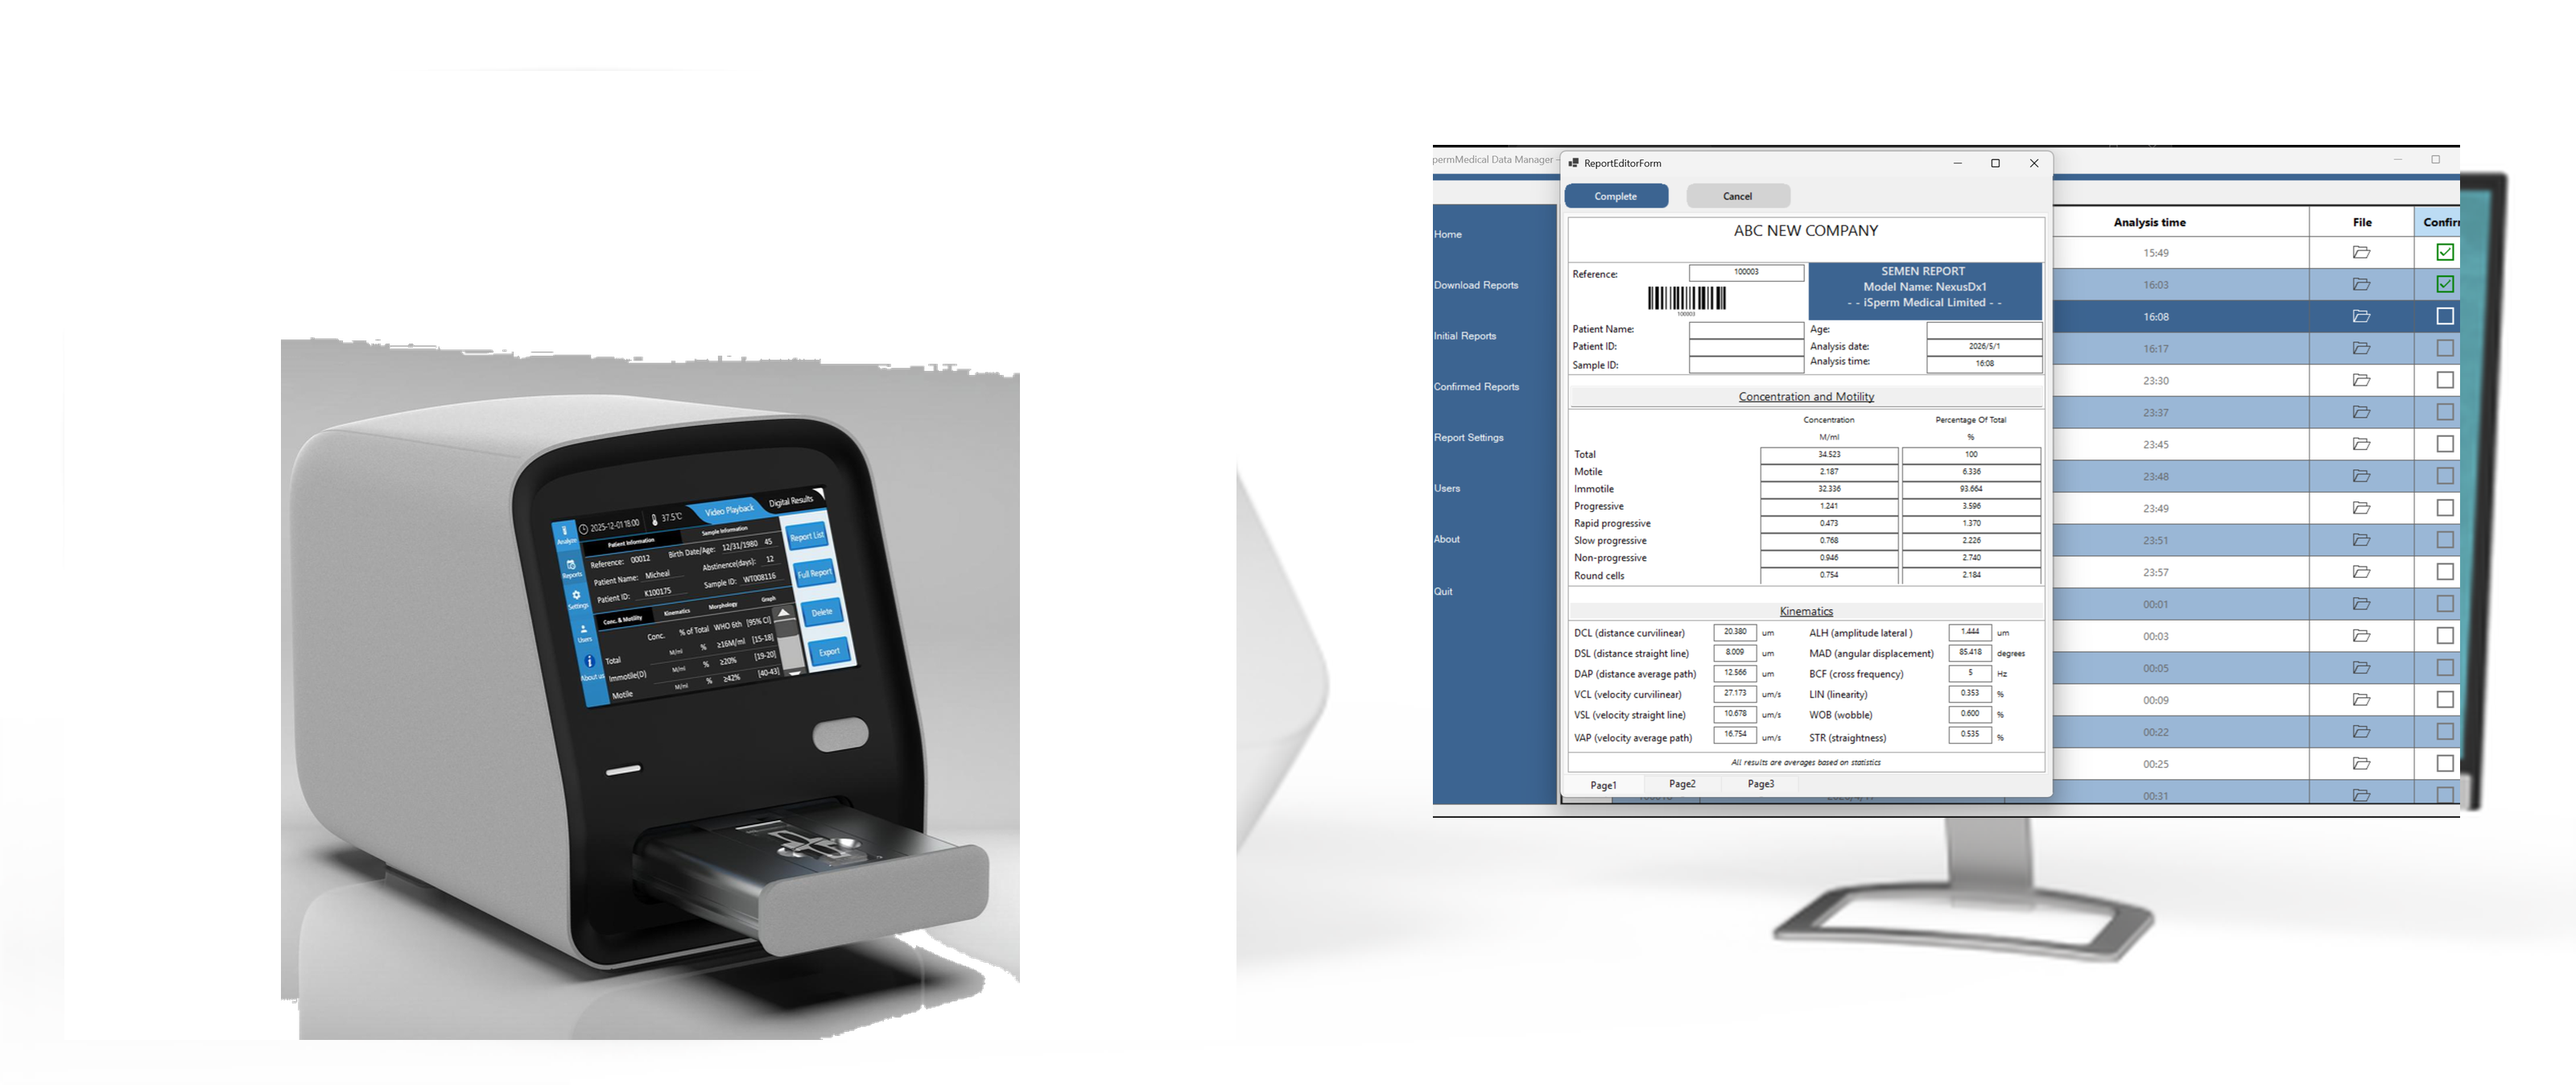
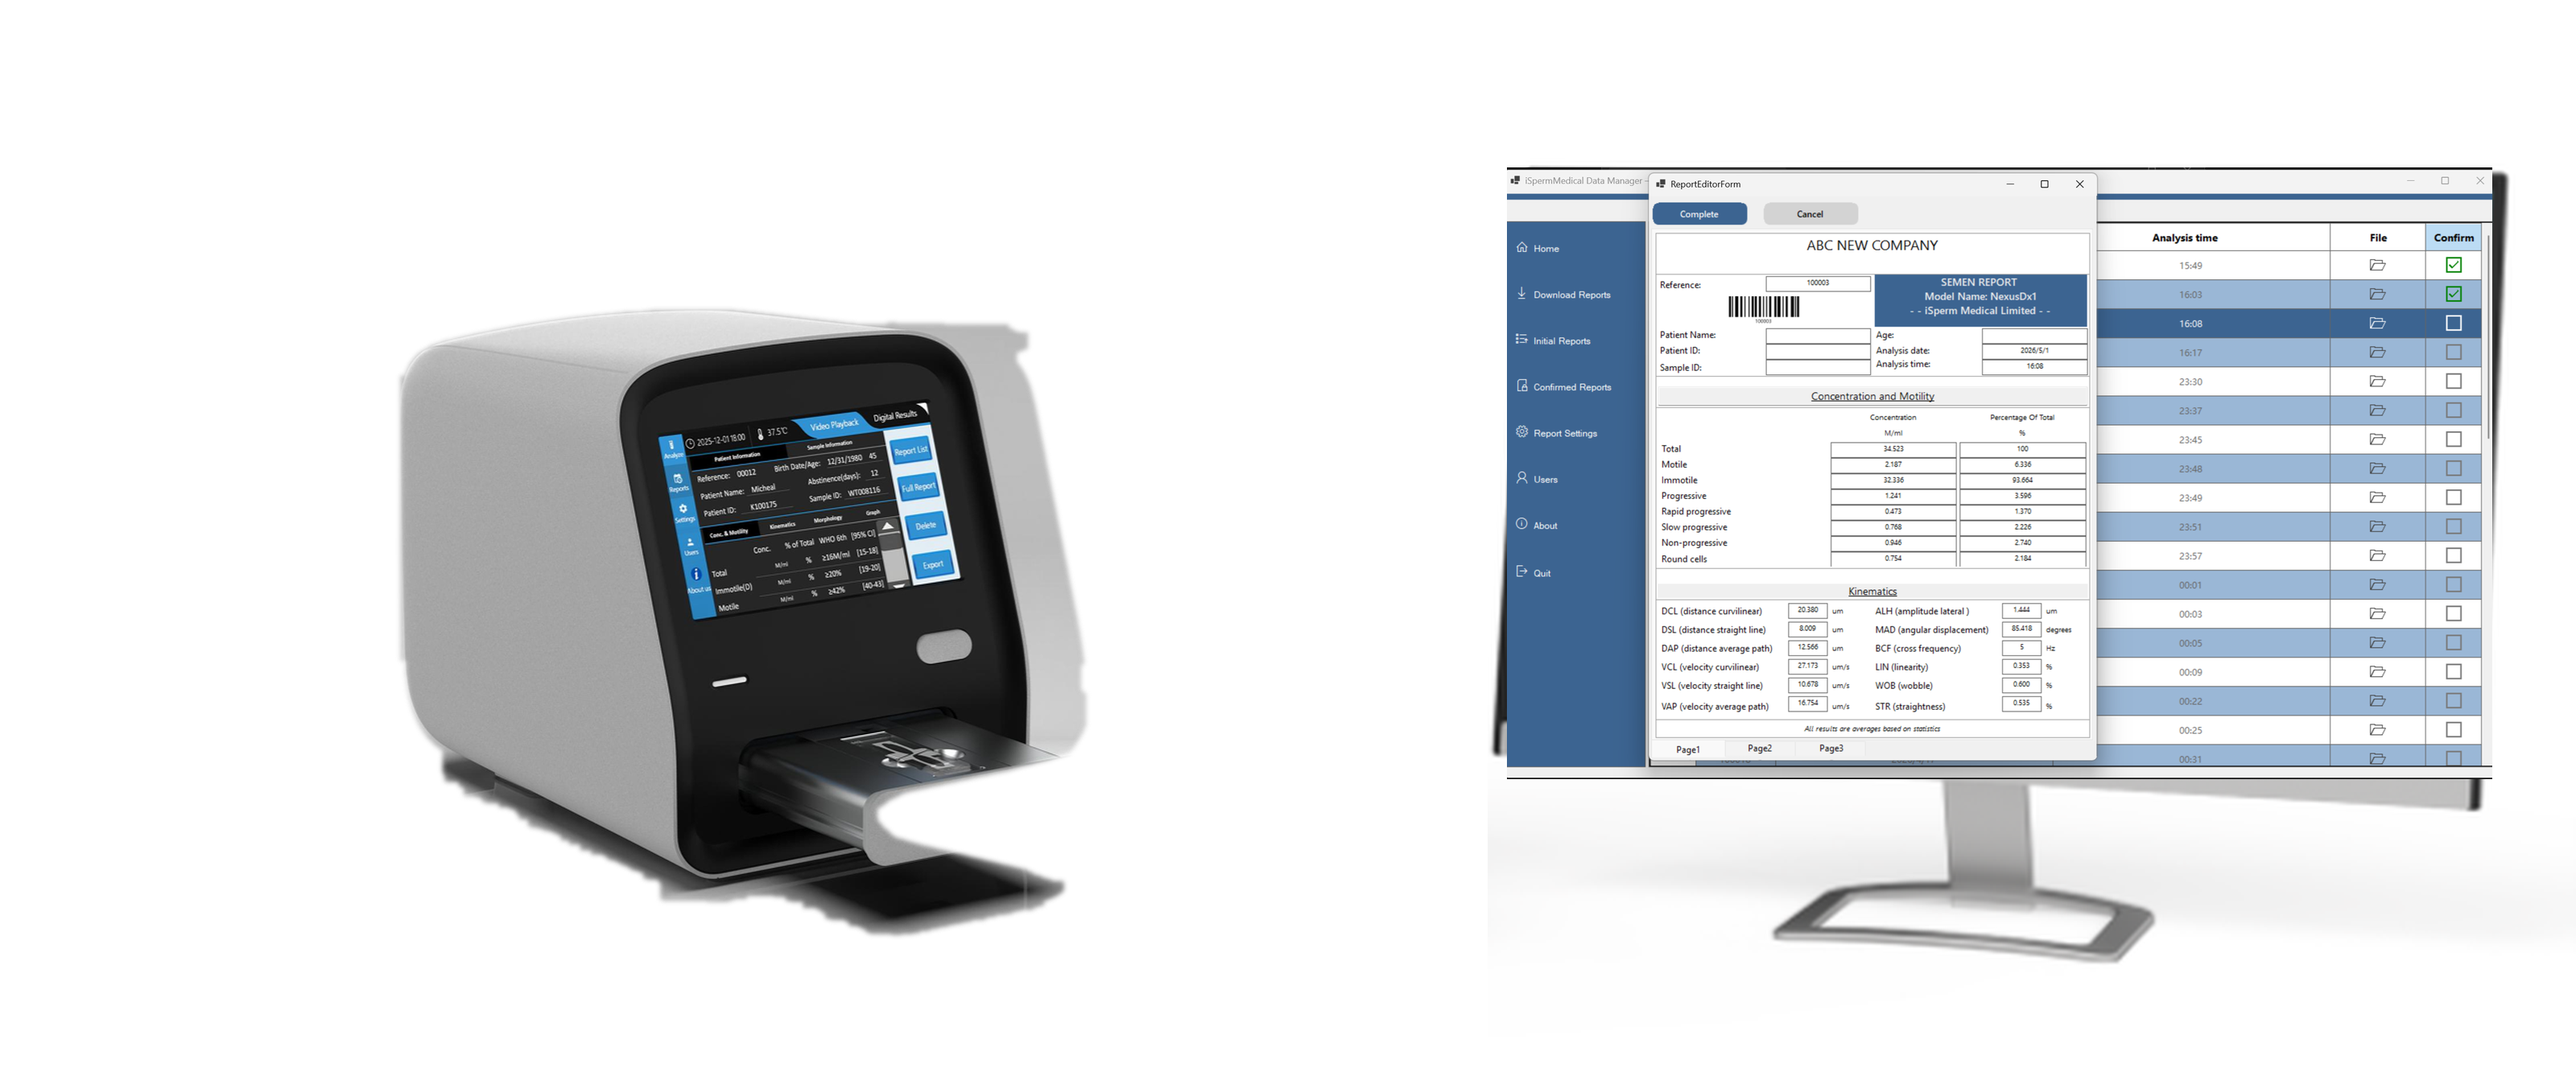
Redo composite with edge-guided watershed segmentation
- Instrument (image1): edge-guided watershed + largest-component cleanup
  cleanly removes gray studio backdrop while preserving full body detail,
  rear shading and floor reflection - no over-exposure
- Monitor (image2): base canvas kept 100% intact - frame, bezels, stand
- Screen: replaced only the interior (468,52)-(774,242) with image3

Changed region(s): [[0.4688, 0.1246, 0.9688, 0.7789], [0.0938, 0.2804, 0.4375, 0.9659], [0.4688, 0.6855, 0.5, 0.7789]]

diff --git a/composite_product_image.py b/composite_product_image.py
@@ -1,96 +1,78 @@
 #!/usr/bin/env python3
 """
-Composite product image — preserves original photo content exactly.
-
-Strategy:
-  1. Use image2 as the base canvas (keeps monitor hardware, stand, lighting, shadows).
-  2. Replace ONLY the monitor screen pixels with image3.
-  3. Replace the left instrument area with image1 (gentle bg removal, no re-lighting).
+Composite: image2 base + image1 instrument + image3 on monitor screen.
+- image2 is the BASE — monitor hardware/bezel/stand/shadows kept 100% intact
+- Screen interior pixels replaced with image3 (software UI)
+- image1 replaces left instrument using edge-guided watershed segmentation
+- Zero content modification to image1 or image3
 """
-
 from __future__ import annotations
-
 import argparse
-from collections import deque
 from pathlib import Path
-
+import cv2
 import numpy as np
 from PIL import Image
+from scipy.ndimage import uniform_filter1d
+
+# ── Screen coordinates measured from image2.png (800×337) ─────────────────────
+SCREEN_BOX   = (468, 52, 774, 242)   # screen interior, inside bezels
+CLEAR_BOX    = (0, 0, 462, 337)      # left zone to clear
+INST_ZONE    = (8, 0, 462, 337)      # where to place instrument
+MONITOR_TOP  = 34                    # monitor top y in image2
+MONITOR_BOT  = 307                   # monitor bottom y (base of stand)
 
 
-# Measured from image2.png (800×337)
-LEFT_INSTRUMENT_BOX = (20, 22, 384, 323)
-SCREEN_BOX = (445, 45, 764, 254)
-MONITOR_HEIGHT = 307 - 34
+def extract_instrument(path: Path) -> Image.Image:
+    """
+    Edge-guided watershed + largest-component cleanup.
+    Preserves original pixel colors; only background is made transparent.
+    """
+    img_bgr = cv2.imread(str(path))
+    img_rgb = cv2.cvtColor(img_bgr, cv2.COLOR_BGR2RGB)
+    h, w = img_bgr.shape[:2]
+    gray = cv2.cvtColor(img_bgr, cv2.COLOR_BGR2GRAY)
+
+    # --- Watershed ---
+    markers = np.zeros((h, w), dtype=np.int32)
+    b = 5
+    markers[:b,:]=1; markers[h-b:,:]=1; markers[:,:b]=1; markers[:,w-b:]=1
+    dark = (gray < 60)
+    fg_seed = cv2.dilate(dark.astype(np.uint8)*255, np.ones((15,15),np.uint8))
+    markers[fg_seed > 0] = 2
+    cv2.watershed(img_bgr, markers)
+    fg = (markers == 2).astype(np.uint8) * 255
+    fg = cv2.morphologyEx(fg, cv2.MORPH_CLOSE, np.ones((30,30),np.uint8))
+    fg = cv2.morphologyEx(fg, cv2.MORPH_DILATE, np.ones((8,8),np.uint8))
+
+    # --- Keep largest connected component ---
+    n, labels, stats, _ = cv2.connectedComponentsWithStats(fg, connectivity=8)
+    largest = 1 + np.argmax(stats[1:, cv2.CC_STAT_AREA])
+    clean = np.where(labels == largest, 255, 0).astype(np.uint8)
+
+    # --- Clip right side row-by-row based on front panel boundary ---
+    body_right = np.zeros(h, dtype=int)
+    for y in range(h):
+        cols = np.where(dark[y,:])[0]
+        body_right[y] = min(cols.max() + 60, w-1) if len(cols) else w-1
+    body_right = uniform_filter1d(body_right.astype(float), size=40).astype(int)
+    for y in range(h):
+        clean[y, body_right[y]:] = 0
+    clean[:, :8] = 0
+
+    clean = cv2.morphologyEx(clean, cv2.MORPH_CLOSE, np.ones((10,10),np.uint8))
+    clean = cv2.GaussianBlur(clean, (13,13), 0)
+
+    rgba = np.dstack([img_rgb, clean])
+    return Image.fromarray(rgba, "RGBA")
 
 
-def load_rgb(path: Path) -> Image.Image:
-    return Image.open(path).convert("RGB")
-
-
-def load_rgba(path: Path) -> Image.Image:
-    img = Image.open(path)
-    return img.convert("RGBA") if img.mode != "RGBA" else img
-
-
-def upscale_box(box: tuple[int, int, int, int], factor: int) -> tuple[int, int, int, int]:
-    return tuple(v * factor for v in box)
-
-
-def remove_instrument_background(img: Image.Image, tolerance: float = 22.0) -> Image.Image:
-    """Flood-fill background removal; preserves rear shading and floor reflection."""
-    rgb = np.array(img.convert("RGB"))
-    h, w = rgb.shape[:2]
-    bg_mask = np.zeros((h, w), dtype=bool)
-    visited = np.zeros((h, w), dtype=bool)
-
-    def flood(seed_y: int, seed_x: int) -> None:
-        queue: deque[tuple[int, int]] = deque([(seed_y, seed_x)])
-        ref = rgb[seed_y, seed_x].astype(np.float32)
-        visited[seed_y, seed_x] = True
-        bg_mask[seed_y, seed_x] = True
-        while queue:
-            cy, cx = queue.popleft()
-            for ny, nx in ((cy - 1, cx), (cy + 1, cx), (cy, cx - 1), (cy, cx + 1)):
-                if 0 <= ny < h and 0 <= nx < w and not visited[ny, nx]:
-                    if np.linalg.norm(rgb[ny, nx].astype(np.float32) - ref) < tolerance:
-                        visited[ny, nx] = True
-                        bg_mask[ny, nx] = True
-                        queue.append((ny, nx))
-
-    for sy, sx in ((0, 0), (0, w - 1), (h - 1, 0), (h - 1, w - 1)):
-        if not visited[sy, sx]:
-            flood(sy, sx)
-
-    alpha = np.where(bg_mask, 0, 255).astype(np.uint8)
-    return Image.fromarray(np.dstack([rgb, alpha]), "RGBA")
-
-
-def clear_region(base: Image.Image, box: tuple[int, int, int, int]) -> None:
-    x0, y0, x1, y1 = box
-    base.paste(Image.new("RGB", (x1 - x0, y1 - y0), (255, 255, 255)), (x0, y0))
-
-
-def paste_cover(base: Image.Image, overlay: Image.Image, box: tuple[int, int, int, int]) -> None:
-    """Fill screen area with software screenshot (cover, center-crop)."""
-    x0, y0, x1, y1 = box
-    tw, th = x1 - x0, y1 - y0
-    sw, sh = overlay.size
-    scale = max(tw / sw, th / sh)
-    resized = overlay.resize((int(sw * scale), int(sh * scale)), Image.Resampling.LANCZOS)
-    rw, rh = resized.size
-    cropped = resized.crop(((rw - tw) // 2, (rh - th) // 2, (rw + tw) // 2, (rh + th) // 2))
-    base.paste(cropped, (x0, y0))
-
-
-def paste_instrument(base: Image.Image, instrument: Image.Image, box: tuple[int, int, int, int], target_height: int) -> None:
-    x0, y0, x1, y1 = box
-    scale = target_height / instrument.size[1]
-    nw, nh = int(instrument.size[0] * scale), target_height
-    resized = instrument.resize((nw, nh), Image.Resampling.LANCZOS)
-    px = x0 + max(0, ((x1 - x0) - nw) // 2)
-    py = y1 - nh
-    base.paste(resized, (px, py), resized)
+def fit_cover(img: Image.Image, tw: int, th: int) -> Image.Image:
+    sw, sh = img.size
+    scale = max(tw/sw, th/sh)
+    nw, nh = int(sw*scale+.5), int(sh*scale+.5)
+    r = img.resize((nw, nh), Image.Resampling.LANCZOS)
+    x0, y0 = (nw-tw)//2, (nh-th)//2
+    return r.crop((x0, y0, x0+tw, y0+th))
 
 
 def composite(
@@ -98,50 +80,60 @@ def composite(
     template_path: Path,
     software_path: Path,
     output_path: Path,
-    scale_factor: int = 4,
-    instrument_scale: float = 0.84,
+    scale: int = 4,
+    inst_ratio: float = 0.83,
 ) -> Path:
-    template = load_rgb(template_path)
+    # ── Load & scale up ────────────────────────────────────────────────────────
+    template = Image.open(template_path).convert("RGB")
     tw, th = template.size
-    base = template.resize((tw * scale_factor, th * scale_factor), Image.Resampling.LANCZOS)
+    base = template.resize((tw*scale, th*scale), Image.Resampling.LANCZOS)
 
-    instrument = remove_instrument_background(load_rgba(instrument_path))
-    software = load_rgb(software_path)
+    S = lambda box: tuple(v*scale for v in box)
 
-    left_box = upscale_box(LEFT_INSTRUMENT_BOX, scale_factor)
-    screen_box = upscale_box(SCREEN_BOX, scale_factor)
+    # ── Step 1: Paste software UI onto monitor screen ──────────────────────────
+    sx0,sy0,sx1,sy1 = S(SCREEN_BOX)
+    software = Image.open(software_path).convert("RGB")
+    base.paste(fit_cover(software, sx1-sx0, sy1-sy0), (sx0,sy0))
 
-    clear_region(base, left_box)
-    paste_cover(base, software, screen_box)
+    # ── Step 2: Clear left instrument zone ────────────────────────────────────
+    cx0,cy0,cx1,cy1 = S(CLEAR_BOX)
+    base.paste(Image.new("RGB",(cx1-cx0,cy1-cy0),(255,255,255)),(cx0,cy0))
 
-    inst_h = int(MONITOR_HEIGHT * scale_factor * instrument_scale)
-    paste_instrument(base, instrument, left_box, inst_h)
+    # ── Step 3: Paste instrument ───────────────────────────────────────────────
+    inst = extract_instrument(instrument_path)
+    monitor_h = (MONITOR_BOT - MONITOR_TOP) * scale
+    target_h = int(monitor_h * inst_ratio)
+    iw, ih = inst.size
+    target_w = int(iw * target_h / ih)
+    inst = inst.resize((target_w, target_h), Image.Resampling.LANCZOS)
+
+    iz_x0,iz_y0,iz_x1,iz_y1 = S(INST_ZONE)
+    # Center in zone, bottom-aligned with image2 ground line
+    px = iz_x0 + max(0, (iz_x1-iz_x0-target_w)//2)
+    ground_y = int(MONITOR_BOT * scale * 0.96)
+    py = ground_y - target_h
+    base.paste(inst, (px, py), inst)
 
     output_path.parent.mkdir(parents=True, exist_ok=True)
-    base.save(output_path, quality=96)
+    base.save(str(output_path), quality=96)
     return output_path
 
 
-def main() -> None:
-    parser = argparse.ArgumentParser()
-    parser.add_argument("--instrument", default="image1.png")
-    parser.add_argument("--template", default="image2.png")
-    parser.add_argument("--software", default="image3.png")
-    parser.add_argument("--output", default="isperm-product-composite.png")
-    parser.add_argument("--instrument-scale", type=float, default=0.84)
-    parser.add_argument("--scale", type=int, default=4)
-    args = parser.parse_args()
-
+def main():
+    p = argparse.ArgumentParser()
+    p.add_argument("--instrument", default="image1.png")
+    p.add_argument("--template",   default="image2.png")
+    p.add_argument("--software",   default="image3.png")
+    p.add_argument("--output",     default="isperm-product-composite.png")
+    p.add_argument("--scale",      type=int,   default=4)
+    p.add_argument("--inst-ratio", type=float, default=0.83)
+    args = p.parse_args()
     out = composite(
-        Path(args.instrument),
-        Path(args.template),
-        Path(args.software),
-        Path(args.output),
-        scale_factor=args.scale,
-        instrument_scale=args.instrument_scale,
+        Path(args.instrument), Path(args.template),
+        Path(args.software),   Path(args.output),
+        scale=args.scale, inst_ratio=args.inst_ratio,
     )
     print(f"Saved: {out}")
-
 
 if __name__ == "__main__":
     main()
